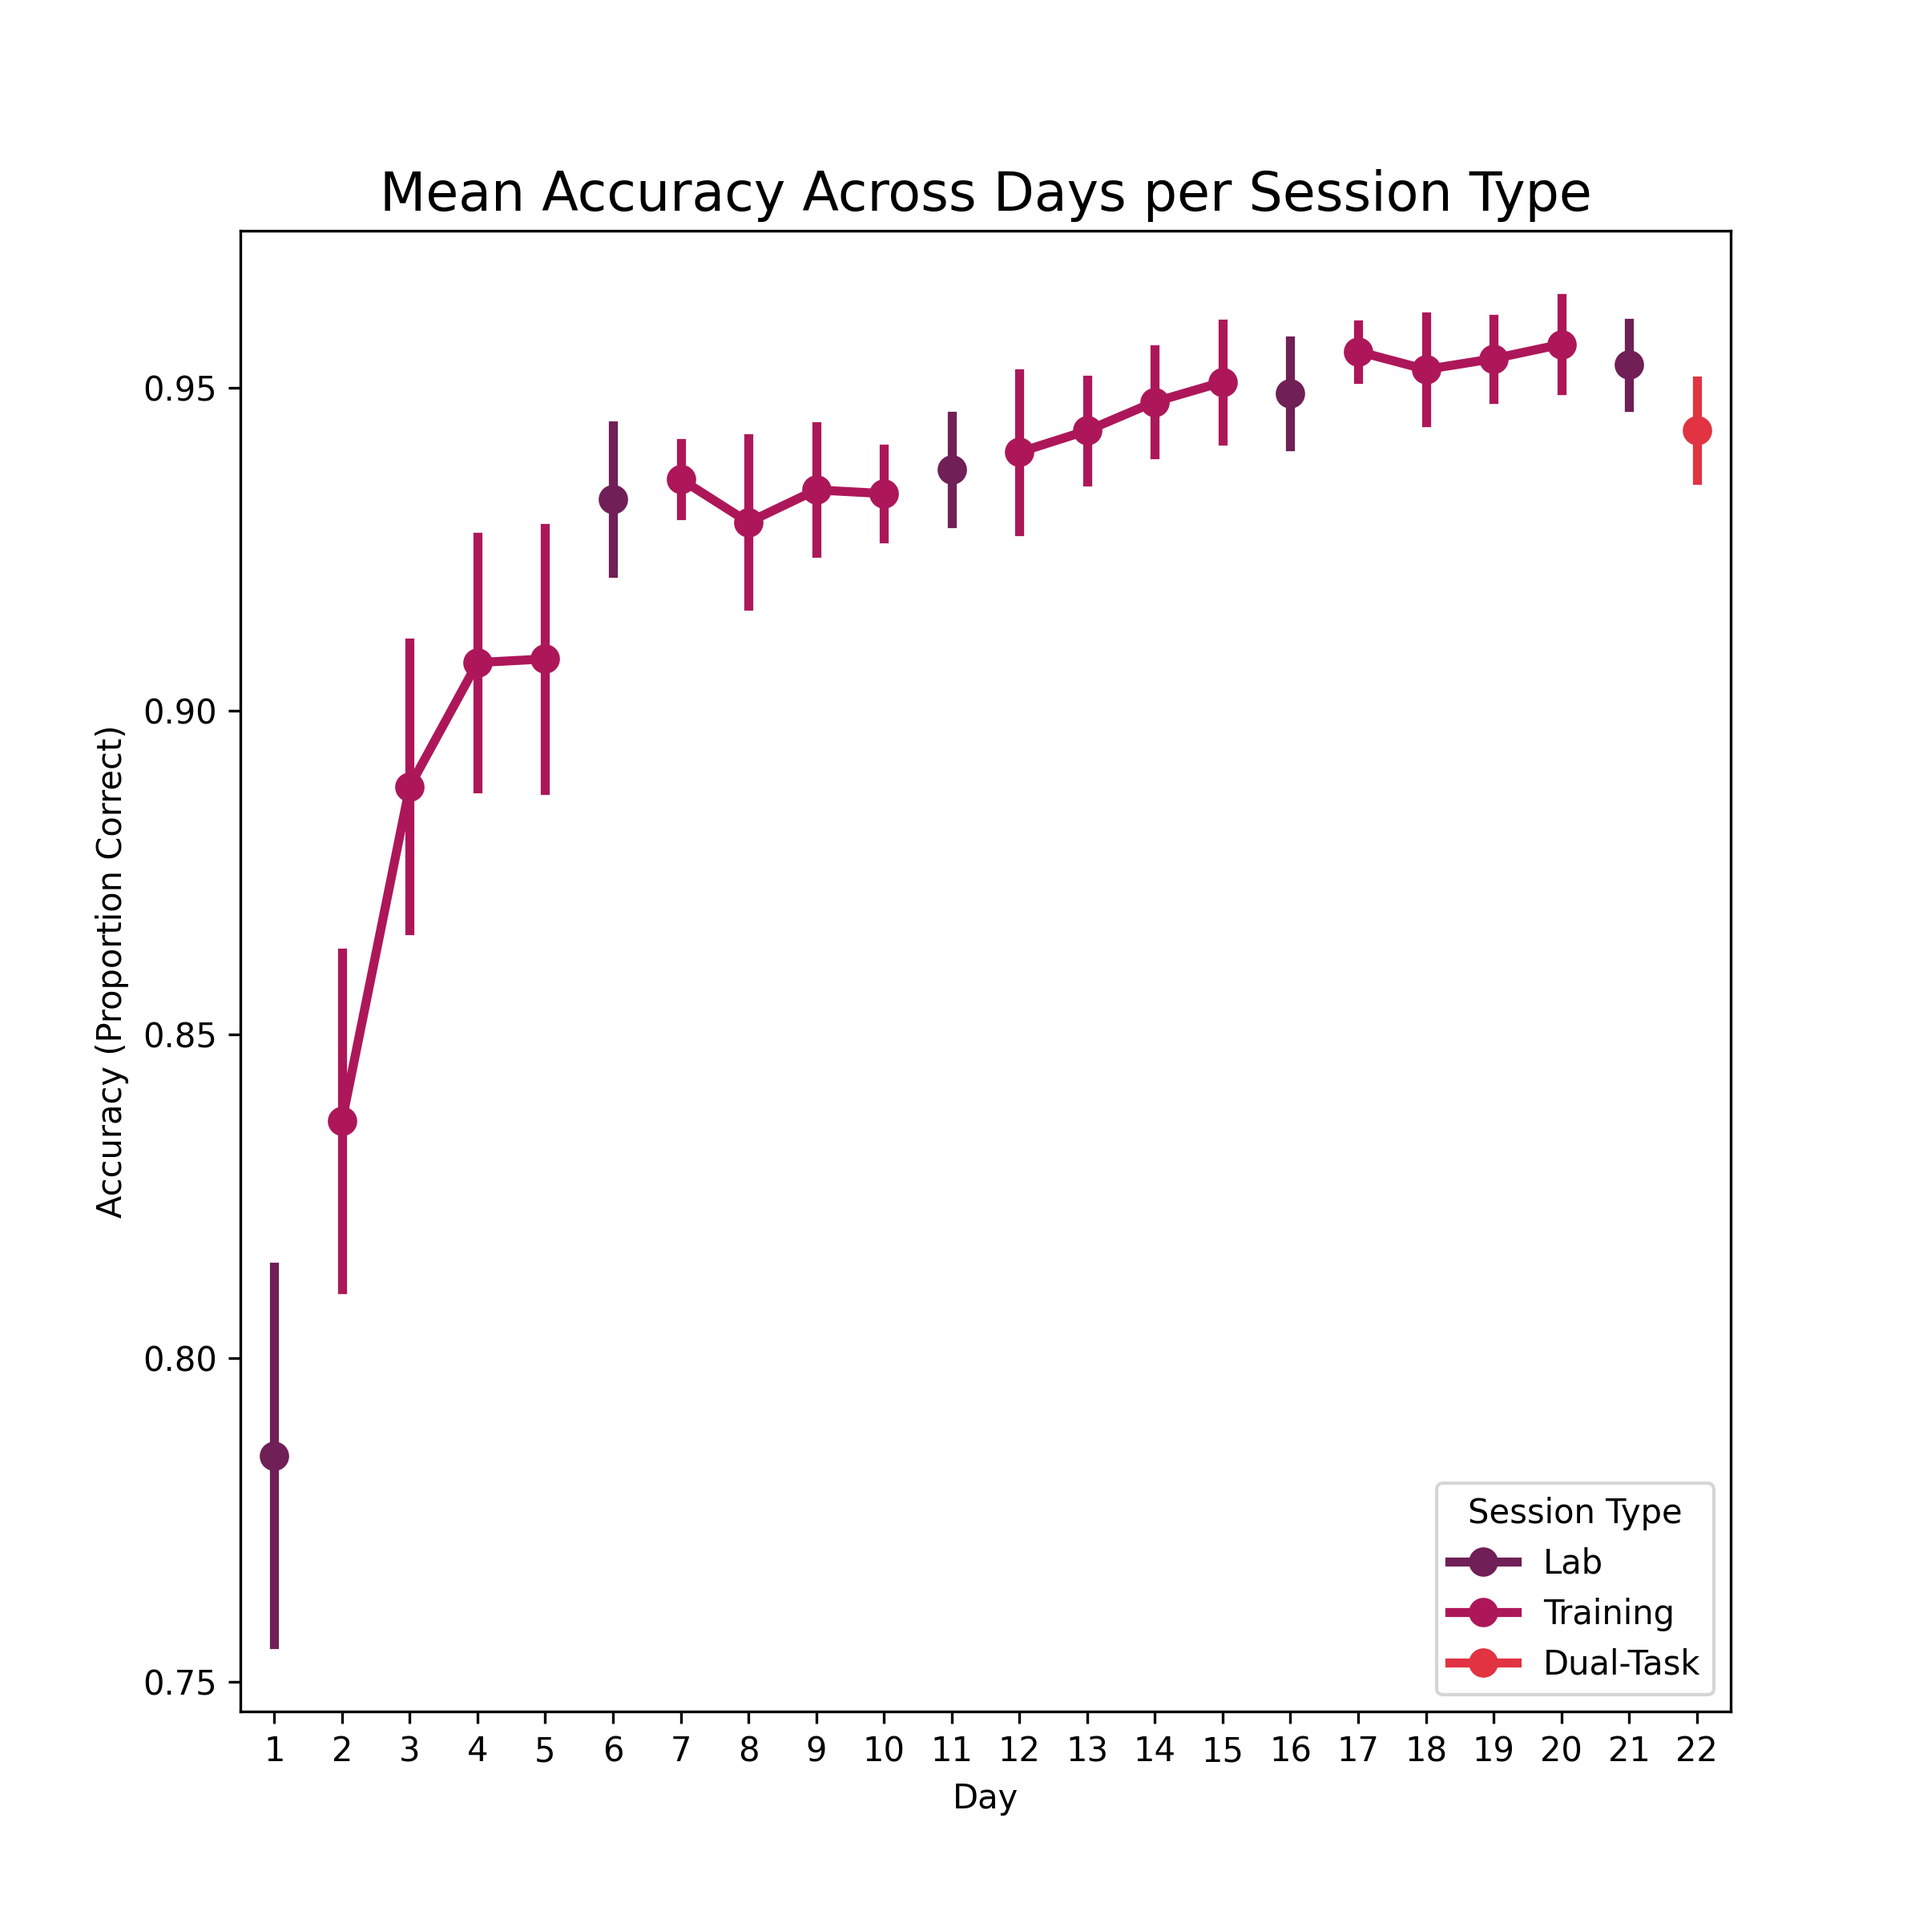
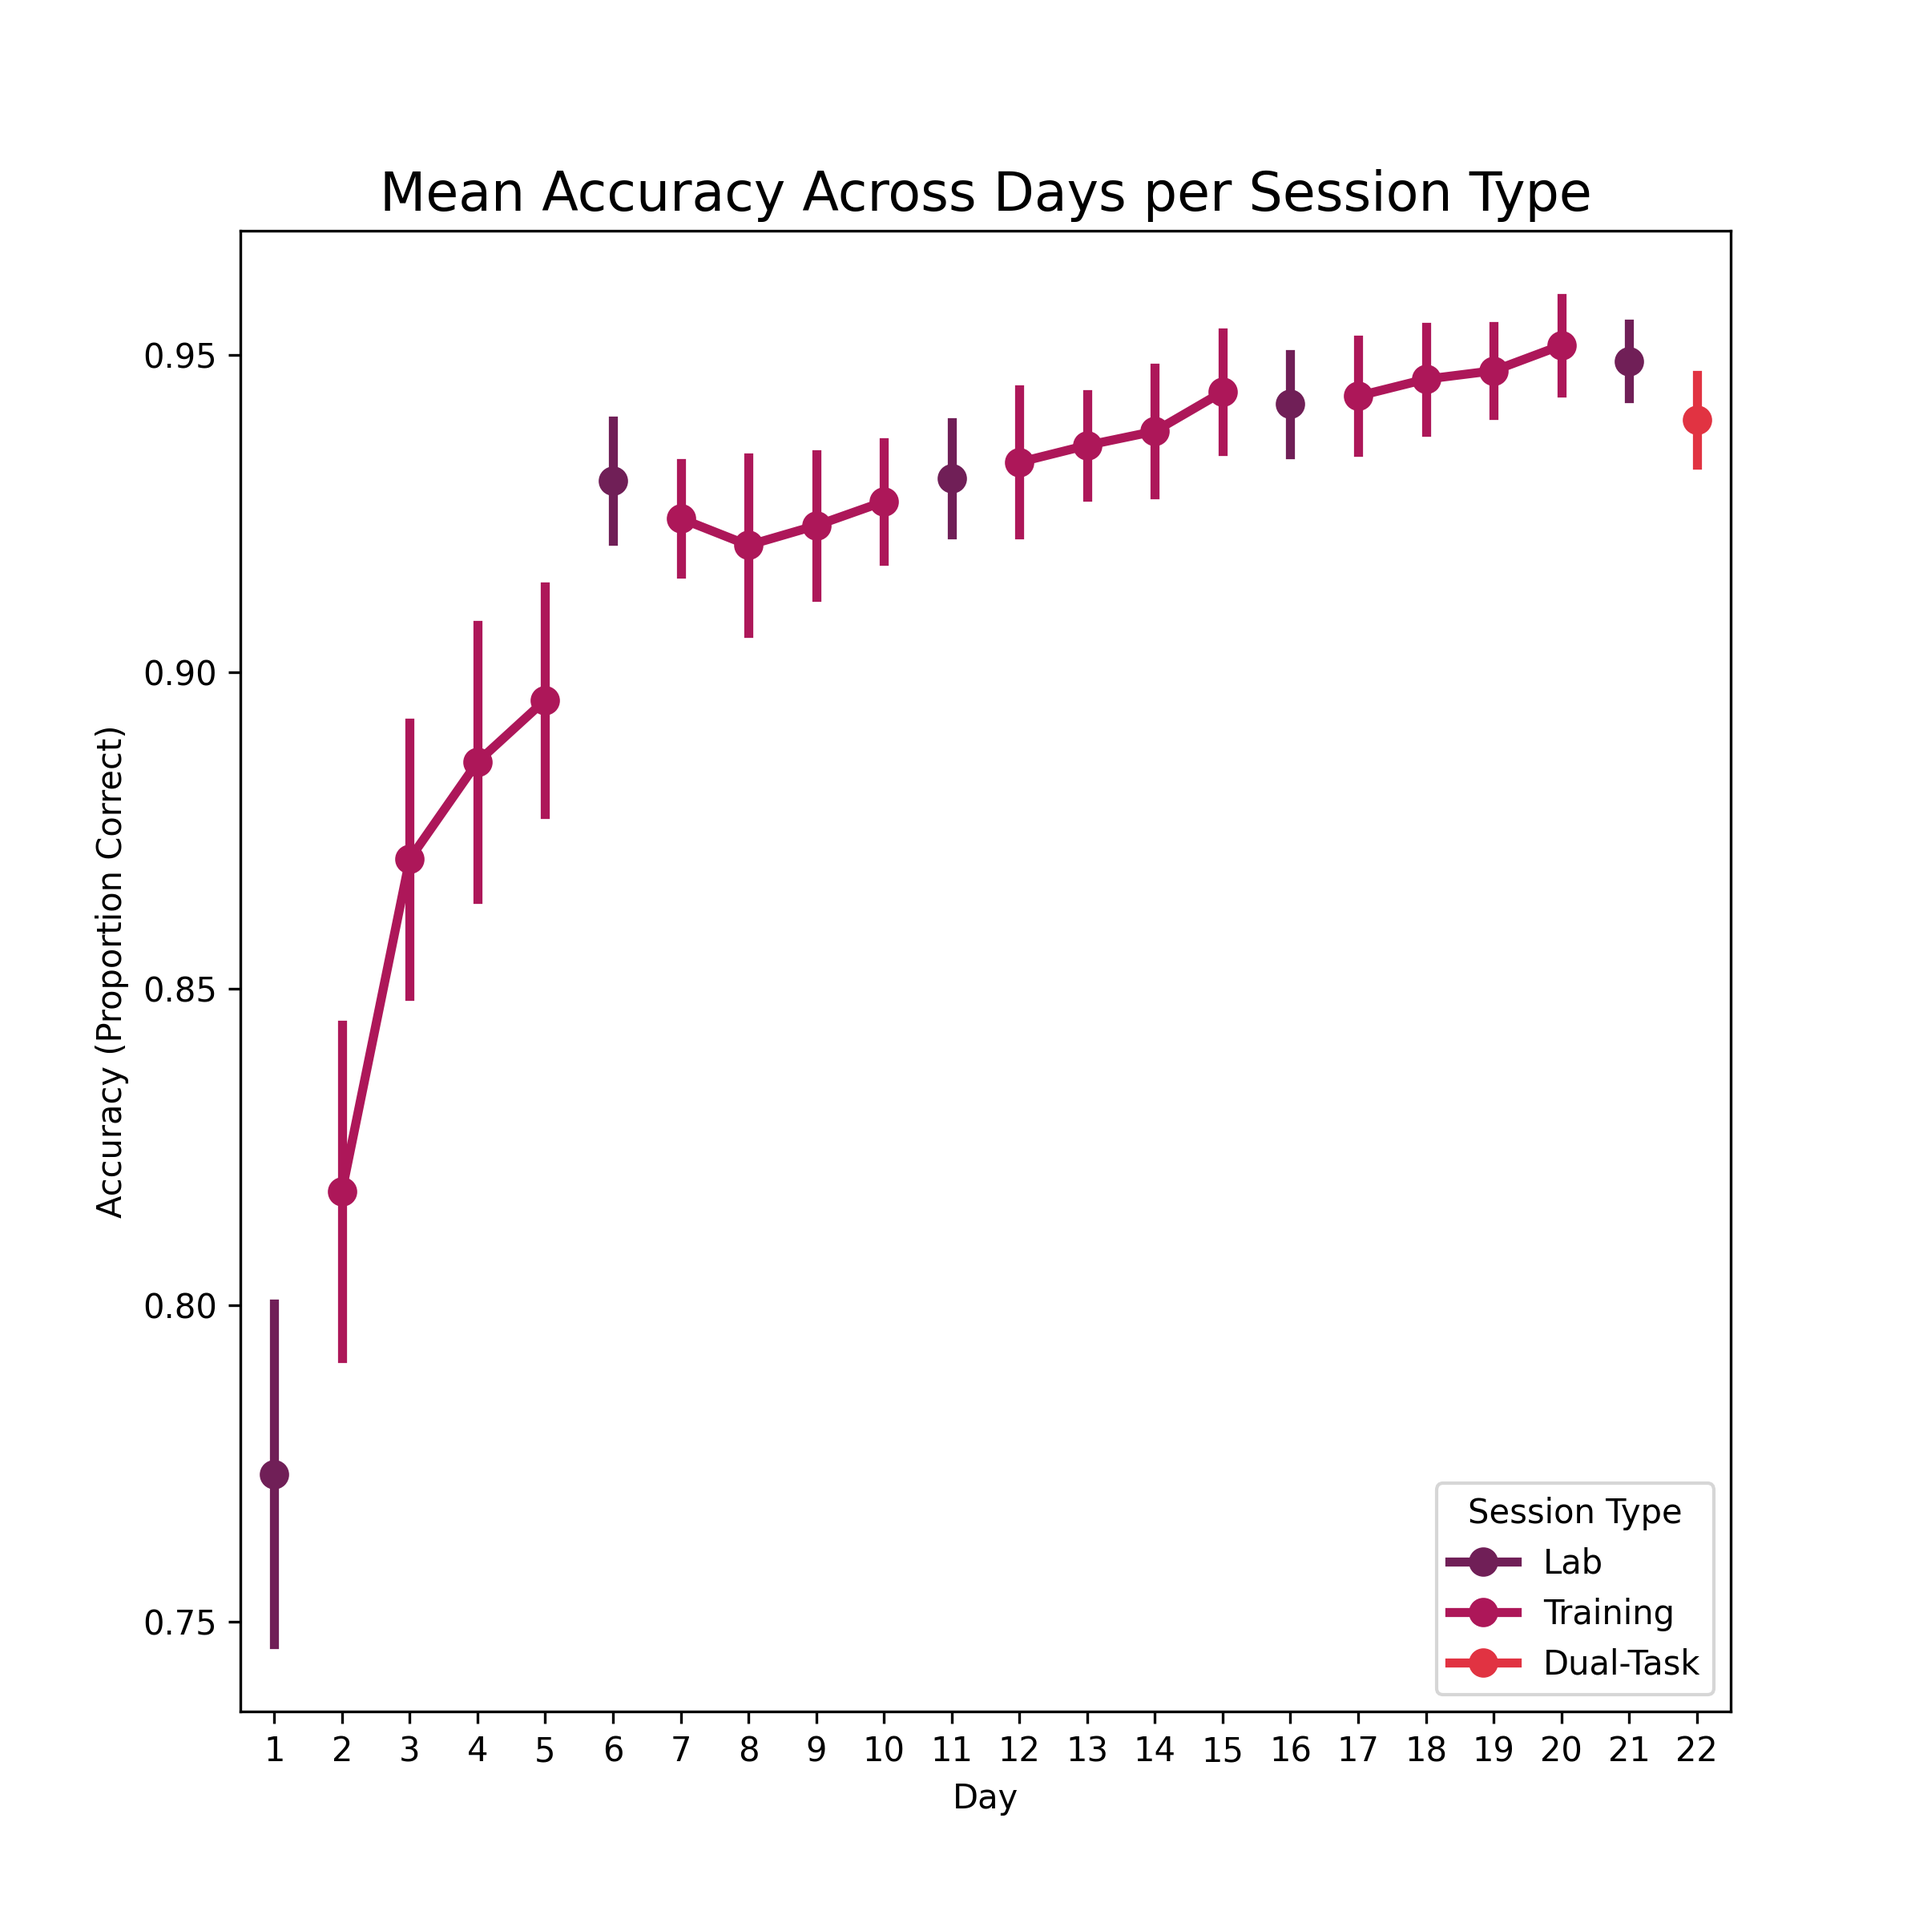
Expand behavioural performance analyses and figures
Save the across-session accuracy and reaction-time summaries and add generated probe-cost figures.

Add reaction-time distribution checks for the final 100 trials of the first lab session, including the 1500 ms and 1750 ms thresholds.

Report the dual-task ANOVA and paired comparisons, correct the Lab Day selection, and add accuracy and reaction-time cost visualisations.

Fix the missing pointplot argument separator so the analysis script parses successfully.

diff --git a/code/behavioural_results.py b/code/behavioural_results.py
@@ -24,7 +24,7 @@ for fd in os.listdir(dir_data_lab):
             f_full_path = os.path.join(dir_data_lab_fd, fs)
             if os.path.isfile(f_full_path) and fs.endswith('.csv'):
 
-                # in session 4, ActiView had a syncing error and crached 30
+                # in session 4, ActiView had a syncing error and crashed 30
                 # trials in with participant 875, restarted experiment clean --
                 # removing extra data file
                 if fs not in ['sub_875_sess_004_part_001_date_2026_04_24_data (1).csv'
@@ -134,6 +134,9 @@ subs_to_keep = np.intersect1d(subs_to_keep, d_lab.subject_id.unique())
 # merge all dataframes inserting np.nan into columns that don't exist in a particular dataframe
 d_all = pd.concat([d_home, d_dt, d_lab], ignore_index=True, sort=False)
 d_all['session_num'] = d_all.groupby('subject_id')['session_num'].rank(method='dense').astype(int)
+
+d_lab[(d_lab['session_num']==12.5) &
+      (d_lab['phase']=='train')].groupby('subject_id')['acc'].mean()
 
 # NOTE: exclude subjects not in all three dataframes (i.e., who did not complete
 # the task correctly)
@@ -301,9 +304,9 @@ ax[0 ,0].set_title('Mean Accuracy Across Days per Session Type', fontsize=16)
 ax[0, 0].set_xlabel('Day')
 ax[0, 0].set_ylabel('Accuracy (Proportion Correct)')
 ax[0, 0].legend(title='Session Type', loc='lower right')
-plt.show()
-#plt.savefig('../figures/accuracy_across_days.png', dpi=300)
-#plt.close()
+# plt.show()
+plt.savefig('../figures/accuracy_across_days.png', dpi=300)
+plt.close()
 
 # NOTE: Figure --- reaction time across all session types
 fig, ax = plt.subplots(1, 1, squeeze=False, figsize=(8, 8))
@@ -314,9 +317,9 @@ ax[0 ,0].set_title('Mean Reaction Times Across Days per Session Type', fontsize=
 ax[0, 0].set_xlabel('Day')
 ax[0, 0].set_ylabel('Reaction Time (ms)')
 ax[0, 0].legend(title='Session Type', loc='lower left')
-plt.show()
-#plt.savefig('../figures/rts_across_days.png', dpi=300)
-#plt.close()
+# plt.show()
+plt.savefig('../figures/rts_across_days.png', dpi=300)
+plt.close()
 
 # NOTE: Figure -- accuracy across all lab days (blocks)
 d_lab_all = d_all[d_all['session_type'] == 'Lab'].copy()
@@ -324,6 +327,48 @@ d_lab_all['block_cont'] = ((d_lab_all['session_num'] - 1) * 26) + d_lab_all['blo
 
 fig, ax = plt.subplots(1, 1, squeeze=False, figsize=(8,8))
 sns.pointplot(data=d_lab_all, x='block_cont', y='acc', hue='probe_condition',
+              errorbar='se', scale=0.75, ax=ax[0,0])
+plt.tight_layout()
+plt.show()
+
+# NOTE: RT distribution -- final 100 trials of first lab training session
+d_lab_first_train = d_all[
+    (d_all['session_type'] == 'Lab') &
+    (d_all['phase'] == 'train') &
+    (d_all['session_num'] == 1)
+].copy()
+d_lab_first_train = d_lab_first_train[
+    d_lab_first_train['trial'] >= (d_lab_first_train['trial'].max() - 99)
+].copy()
+
+rt_total = len(d_lab_first_train)
+rt_above_1500 = (d_lab_first_train['rt'] > 1500).sum()
+rt_above_1750 = (d_lab_first_train['rt'] > 1750).sum()
+rt_between_1500_1750 = (
+    (d_lab_first_train['rt'] > 1500) &
+    (d_lab_first_train['rt'] <= 1750)
+).sum()
+
+print('Final 100 trials of first lab train RT distribution')
+print('n trials:', rt_total)
+print('pct rt > 1500 ms:', (rt_above_1500 / rt_total) * 100)
+print('pct rt > 1750 ms:', (rt_above_1750 / rt_total) * 100)
+print('pct 1500 < rt <= 1750 ms:', (rt_between_1500_1750 / rt_total) * 100)
+
+fig, ax = plt.subplots(1, 1, squeeze=False, figsize=(8, 6))
+sns.histplot(data=d_lab_first_train, x='rt', bins=40, ax=ax[0, 0])
+ax[0, 0].axvline(1500, color='black', linestyle='--')
+ax[0, 0].axvline(1750, color='black', linestyle='--')
+ax[0, 0].set_title('RT Distribution: Final 100 Trials of First Lab Training Session')
+ax[0, 0].set_xlabel('Reaction Time (ms)')
+ax[0, 0].set_ylabel('Count')
+plt.tight_layout()
+plt.savefig('../figures/rt_distribution_first_lab_train_last100.png', dpi=300)
+plt.close()
+
+# NOTE: Figure -- same as above but rt
+fig, ax = plt.subplots(1, 1, squeeze=False, figsize=(8,8))
+sns.pointplot(data=d_lab_all, x='block_cont', y='rt', hue='subject_id',
               errorbar='se', scale=0.75, ax=ax[0,0])
 plt.tight_layout()
 plt.show()
@@ -359,18 +404,27 @@ res_anova = pg.rm_anova(data=d_anova,
                         subject='subject_id',
                         correction=True)
 
+print('ANOVA \n', res_anova)
+
 # NOTE: Stats -- dual-task: is there a difference in accuracy?
+# last training day to dt
 res = pg.ttest(x=d_dtf[d_dtf['session_num'] == 'Last Training Day']['acc_plot'],
                y=d_dtf[d_dtf['session_num'] == 'Dual-Task Day']['acc_plot'],
                alternative='two-sided',
                paired=True)
+print('training vs dt \n', res)
 
-res = pg.ttest(x=d_dtf[d_dtf['session_num'] == 'Lab']['acc_plot'],
+# last lab day to dt
+res = pg.ttest(x=d_dtf[d_dtf['session_num'] == 'Lab Day']['acc_plot'],
                y=d_dtf[d_dtf['session_num'] == 'Dual-Task Day']['acc_plot'],
                alternative='two-sided',
                paired=True)
+print('lab vs dt \n', res)
 
 # NOTE: Figure -- calculating + plotting cost for accuracy and reaction time
+pal = sns.color_palette('rocket', 6)
+mid3 = pal[2:4]
+
 d_cost = d_all.copy() 
 
 drop_subs = [134, 213, 268, 358, 482]
@@ -409,7 +463,50 @@ sns.pointplot(data=dd_wide_acc,
               linestyle='none',
               dodge=True
 )
-plt.show()
+# plt.show()
+plt.savefig('../figures/accuracy_cost_point.png', dpi=300)
+plt.close()
+
+# barplot accuracy cost
+fig, ax = plt.subplots(1, 1, squeeze=False, figsize=(8, 8))
+sns.barplot(data=dd_wide_acc,
+            x='session_num',
+            y='diff_score',
+            hue='probe_condition',
+            errorbar='se',
+            linestyle='none',
+            dodge=True,
+            palette='flare',
+            err_kws={"color": "black"},
+            capsize=0.2
+)
+# plt.show()
+plt.savefig('../figures/accuracy_cost_bar.png', dpi=300)
+plt.close()
+
+# NOTE: stats -- accuracy cost
+
+
+# # plot accuracy cost for each subject
+# fig, ax = plt.subplots(1, 2, squeeze=False, figsize=(10, 5))
+# sns.lineplot(data=dd_wide[dd_wide['probe_condition'] == 90],
+#              x = 'session_num',
+#              y = 'diff_score',
+#              hue = 'subject_id',
+#              ax=ax[0, 0]
+# )
+# sns.lineplot(data=dd_wide[dd_wide['probe_condition'] == 180],
+#              x = 'session_num',
+#              y = 'diff_score',
+#              hue = 'subject_id',
+#              ax=ax[0, 1]
+# )
+# sns.move_legend(ax[0, 0], 'upper left', bbox_to_anchor=(1, 1))
+# sns.move_legend(ax[0, 1], 'upper left', bbox_to_anchor=(1, 1))
+# plt.tight_layout()
+# plt.show()
+# plt.savefig('90vs180.png')
+
 
 # reaction times
 dd_wide_rt = (
@@ -437,27 +534,43 @@ sns.pointplot(data=dd_wide_rt,
               linestyle='none',
               dodge=True
 )
-plt.show()
+# plt.show()
+plt.savefig('../figures/rt_cost_point.png', dpi=300)
+plt.close()
 
-# plot accuracy cost for each subject 
-fig, ax = plt.subplots(1, 2, squeeze=False, figsize=(10, 5))
-sns.lineplot(data=dd_wide[dd_wide['probe_condition'] == 90],
-             x = 'session_num',
-             y = 'diff_score',
-             hue = 'subject_id',
-             ax=ax[0, 0]
+# barplot rt cost
+fig, ax = plt.subplots(1, 1, squeeze=False, figsize=(8, 8))
+sns.barplot(data=dd_wide_rt,
+            x='session_num',
+            y='diff_score',
+            hue='probe_condition',
+            errorbar='se',
+            linestyle='none',
+            dodge=True,
+            palette='flare',
+            err_kws={"color": "black"},
+            capsize=0.2
 )
-sns.lineplot(data=dd_wide[dd_wide['probe_condition'] == 180],
-             x = 'session_num',
-             y = 'diff_score',
-             hue = 'subject_id',
-             ax=ax[0, 1]
-)
-sns.move_legend(ax[0, 0], 'upper left', bbox_to_anchor=(1, 1))
-sns.move_legend(ax[0, 1], 'upper left', bbox_to_anchor=(1, 1))
+# plt.show()
+plt.savefig('../figures/rt_cost_bar.png', dpi=300)
+plt.close()
+
+# plot reaction times before and after for each day
+dd['phase'] = pd.Categorical(dd['phase'], categories=['train', 'test'], ordered=True)
+days = [1, 6, 11, 16, 21]
+
+fig, ax = plt.subplots(1, 5, squeeze=False, sharey=True, figsize=(10,6))
+for i, day in enumerate(days):
+    sns.lineplot(data=dd[dd['session_num']==day],
+                 x='phase',
+                 y='rt',
+                 hue='probe_condition',
+                 units='subject_id',
+                 marker='o',
+                 estimator=None,
+                 ax=ax[0,i])
 plt.tight_layout()
 plt.show()
-plt.savefig('90vs180.png')
 
 # NOTE: Figure -- calculating + plotting conguency accurancy and reaction times (90 only)
 d_congruency = d_all.copy() 
@@ -536,7 +649,7 @@ sns.pointplot(data=dd_wide_rt,
               x='session_num',
               y='diff_score',
               hue='probe_condition',
-              markers='congruency'
+              markers='congruency',
               errorbar='se',
               linestyle='none',
               dodge=True
